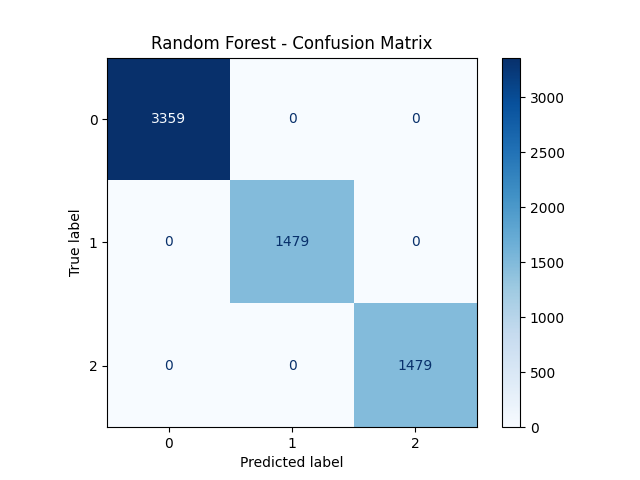
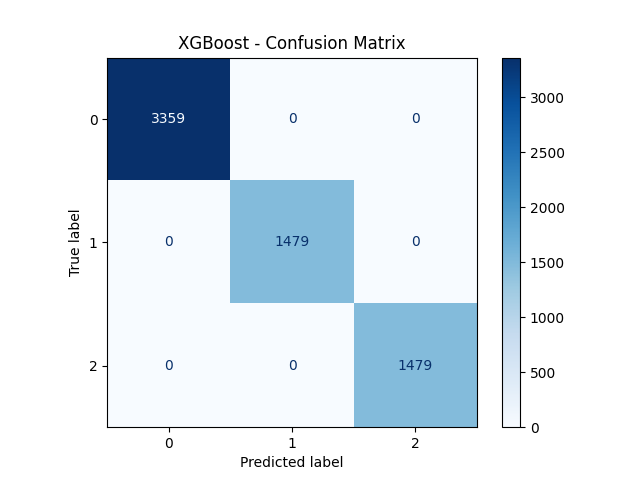
confussion matrices

Changed region(s): [[0.2188, 0.0625, 0.6875, 0.125]]

diff --git a/Deep_Neural_Networks/MLP/MLP_K_Fold.py b/Deep_Neural_Networks/MLP/MLP_K_Fold.py
@@ -6,7 +6,7 @@ import numpy as np
 from torch.utils.data import DataLoader, TensorDataset
 from sklearn.model_selection import StratifiedKFold
 from sklearn.preprocessing import MinMaxScaler
-from sklearn.metrics import accuracy_score
+from sklearn.metrics import accuracy_score, ConfusionMatrixDisplay, classification_report
 import matplotlib.pyplot as plt
 import pandas as pd
 import time
@@ -34,12 +34,13 @@ train_fold_accuracies = []
 train_time_l = []
 train_loss_l = []
 val_loss_l = []
+classific_report = []
 fold_n = 0
 
 for train_index, val_index in k_folds.split(features_tensor,label_tensor):
     fold_n += 1
 
-    print(f"\n======= Fold {fold_n}/{k_folds_n} =======")
+    print(f"\n================== Fold {fold_n}/{k_folds_n} ==================")
 
     X_train = features_tensor[train_index]
     y_train = label_tensor[train_index]
@@ -105,11 +106,11 @@ for train_index, val_index in k_folds.split(features_tensor,label_tensor):
                 _, predicted = torch.max(outputs, 1)
                 val_predictions.extend(predicted.cpu().numpy())
                 val_labels.extend(batch_y.cpu().numpy())
-         
+        
         avg_val_loss = val_loss / len(val_loader)
         val_accuracy = accuracy_score(val_labels, val_predictions) * 100
 
-        print(f"Epoch [{epoch+1}/{num_epochs}] Train Loss: {avg_train_loss:.6f} | Val Loss: {avg_val_loss:.6f} | Train Acc: {train_accuracy:.2f}% | Val Accuracy: {val_accuracy:.2f}%")
+        print(f"Epoch [{epoch+1}/{num_epochs}] Train Loss: {avg_train_loss:.6f} | Val Loss: {avg_val_loss:.6f} | Train Accuracy: {train_accuracy:.2f}% | Val Accuracy: {val_accuracy:.2f}%")
         
         train_losses.append(avg_train_loss)
         val_losses.append(avg_val_loss)
@@ -126,7 +127,18 @@ for train_index, val_index in k_folds.split(features_tensor,label_tensor):
     train_loss_l.append(np.mean(train_losses))
     val_loss_l.append(np.mean(val_losses))
 
+    print("\n-> Classification Report\n")
+    print(len(val_predictions))
+    print(classification_report(y_val,val_predictions, digits=2))
+
     print(f"\n-> Fold {fold_n} Average Validation Accuracy: {val_avg_accuracy:.2f}%, Average Train Accuracy: {train_avg_accuracy:.2f}%, Training Time: {training_time:.3f} seconds")
+
+    classific_report.append(classification_report(y_val,val_predictions, digits=2))
+
+    cm = ConfusionMatrixDisplay.from_predictions(y_val, val_predictions, cmap="Blues")
+    plt.title("MLP - Confusion Matrix")
+    plt.grid(False)
+    plt.savefig(f"MLP_K_Fold_plots/Confusion_Matrix/CM_{fold_n}.png")
 
     plt.figure(figsize=(10, 4))
     plt.plot(train_losses, label="Train Loss")
@@ -136,7 +148,7 @@ for train_index, val_index in k_folds.split(features_tensor,label_tensor):
     plt.ylabel("Loss")
     plt.legend()
     plt.grid(True)
-    plt.savefig(f"MLP_K_Fold_plots/train_validation_loss_fold_{fold_n}.png")
+    plt.savefig(f"MLP_K_Fold_plots/Train_Validation_Loss/train_validation_loss_fold_{fold_n}.png")
 
     plt.figure(figsize=(10, 4))
     plt.plot(val_accuracies, label="Validation Accuracy")
@@ -146,7 +158,7 @@ for train_index, val_index in k_folds.split(features_tensor,label_tensor):
     plt.ylabel("Accuracy (%)")
     plt.legend()
     plt.grid(True)
-    plt.savefig(f"MLP_K_Fold_plots/train_validation_accuracy_fold_{fold_n}.png")
+    plt.savefig(f"MLP_K_Fold_plots/Train_Validation_Accuracy/train_validation_accuracy_fold_{fold_n}.png")
 
 
 print("================================\n")
@@ -198,7 +210,9 @@ with open("MLP_report/mlp_report.txt", "w") as file:
     for i, loss in enumerate(val_loss_l):
         file.write(f"Fold {i+1}: {loss:.6f}\n")
     file.write(f"\nAverage Validation Loss: {np.mean(val_loss_l):.6f}\n")
-
+    file.write(f"\n-> Classification Report\n")
+    for i, report in enumerate(classific_report):
+        file.write(f"Fold {i+1}:\n {report}\n")
 
 print("Report saved:\n -> MLP/MLP_report\n")
 print("Plots saved:\n -> MLP/MLP_K_Fold_plots\n")

diff --git a/Deep_Neural_Networks/CNN/CNN_K_Fold.py b/Deep_Neural_Networks/CNN/CNN_K_Fold.py
@@ -6,7 +6,7 @@ import numpy as np
 from torch.utils.data import DataLoader, TensorDataset
 from sklearn.model_selection import StratifiedKFold
 from sklearn.preprocessing import MinMaxScaler
-from sklearn.metrics import accuracy_score
+from sklearn.metrics import accuracy_score, ConfusionMatrixDisplay, classification_report
 import matplotlib.pyplot as plt
 import pandas as pd
 import time
@@ -34,12 +34,13 @@ train_fold_accuracies = []
 train_time_l = []
 train_loss_l = []
 val_loss_l = []
+classific_report = []
 fold_n = 0
 
 for train_index, val_index in k_folds.split(features_tensor,label_tensor):
     fold_n += 1
 
-    print(f"\n======= Fold {fold_n}/{k_folds_n} =======")
+    print(f"\n================== Fold {fold_n}/{k_folds_n} ==================")
 
     X_train = features_tensor[train_index]
     y_train = label_tensor[train_index]
@@ -111,7 +112,7 @@ for train_index, val_index in k_folds.split(features_tensor,label_tensor):
         avg_val_loss = val_loss / len(val_loader)
         val_accuracy = accuracy_score(val_labels, val_predictions) * 100
 
-        print(f"Epoch [{epoch+1}/{num_epochs}] Train Loss: {avg_train_loss:.6f} | Val Loss: {avg_val_loss:.6f} | Train Acc: {train_accuracy:.2f}% | Val Accuracy: {val_accuracy:.2f}%")
+        print(f"Epoch [{epoch+1}/{num_epochs}] Train Loss: {avg_train_loss:.6f} | Val Loss: {avg_val_loss:.6f} | Train Accuracy: {train_accuracy:.2f}% | Val Accuracy: {val_accuracy:.2f}%")
         
         train_losses.append(avg_train_loss)
         val_losses.append(avg_val_loss)
@@ -128,7 +129,17 @@ for train_index, val_index in k_folds.split(features_tensor,label_tensor):
     train_loss_l.append(np.mean(train_losses))
     val_loss_l.append(np.mean(val_losses))
 
+    print("\n-> Classification Report\n")
+    print(classification_report(y_val,val_predictions, digits=2))
+
     print(f"\n-> Fold {fold_n} Average Validation Accuracy: {val_avg_accuracy:.2f}%, Average Train Accuracy: {train_avg_accuracy:.2f}% , Training Time: {training_time:.3f} seconds")
+
+    classific_report.append(classification_report(y_val,val_predictions, digits=2))
+
+    cm = ConfusionMatrixDisplay.from_predictions(y_val, val_predictions, cmap="Blues")
+    plt.title("CNN - Confusion Matrix")
+    plt.grid(False)
+    plt.savefig(f"CNN_K_Fold_plots/Confusion_Matrix/CM_{fold_n}.png")
 
     plt.figure(figsize=(10, 4))
     plt.plot(train_losses, label="Train Loss")
@@ -139,7 +150,7 @@ for train_index, val_index in k_folds.split(features_tensor,label_tensor):
     plt.xticks(range(1, num_epochs + 1))
     plt.legend()
     plt.grid(True)
-    plt.savefig(f"CNN_K_Fold_plots/train_validation_loss_fold_{fold_n}.png")
+    plt.savefig(f"CNN_K_Fold_plots/Train_Validation_Loss/train_validation_loss_fold_{fold_n}.png")
 
     plt.figure(figsize=(10, 4))
     plt.plot(val_accuracies, label="Validation Accuracy")
@@ -150,7 +161,7 @@ for train_index, val_index in k_folds.split(features_tensor,label_tensor):
     plt.xticks(range(1, num_epochs + 1))
     plt.legend()
     plt.grid(True)
-    plt.savefig(f"CNN_K_Fold_plots/train_validation_accuracy_fold_{fold_n}.png")
+    plt.savefig(f"CNN_K_Fold_plots/Train_Validation_Accuracy/train_validation_accuracy_fold_{fold_n}.png")
 
 print("================================\n")
 print(f"-> Average K-Fold Train Accuracy: {np.mean(train_fold_accuracies):.2f}%\n")
@@ -201,6 +212,9 @@ with open("CNN_report/CNN_report.txt", "w") as file:
     for i, loss in enumerate(val_loss_l):
         file.write(f"Fold {i+1}: {loss:.6f}\n")
     file.write(f"\nAverage Validation Loss: {np.mean(val_loss_l):.6f}\n")
+    file.write(f"\n-> Classification Report\n")
+    for i, report in enumerate(classific_report):
+        file.write(f"Fold {i+1}:\n {report}\n")
 
 print("Report saved:\n -> CNN/CNN_report\n")
 print("Plots saved:\n -> CNN/CNN_K_Fold_plots\n")

diff --git a/Machine_Learning_Models/XGBoost_Classifier/XGBoost_Classifier_K_Fold.py b/Machine_Learning_Models/XGBoost_Classifier/XGBoost_Classifier_K_Fold.py
@@ -86,7 +86,7 @@ for train_index, val_index in k_folds.split(features, label):
     classific_report.append(classification_report(y_val,val_predictions, digits=2))
 
     cm = ConfusionMatrixDisplay.from_predictions(y_val, val_predictions, cmap="Blues")
-    plt.title("Random Forest - Confusion Matrix")
+    plt.title("XGBoost - Confusion Matrix")
     plt.grid(False)
     plt.savefig(f"XGBoost_K_Fold_plots/CM_{fold_n}.png")
 

diff --git a/Machine_Learning_Models/Random_Forest_Classifier/Random_Forest_SHAP.PY b/Machine_Learning_Models/Random_Forest_Classifier/Random_Forest_SHAP.PY
@@ -39,7 +39,7 @@ try:
         plt.close()
 
     shap_values_avg = np.mean(np.abs(shap_values), axis=2)
-
+    
     plt.figure(figsize=(14, 7))
     shap.summary_plot(shap_values_avg, features=features_scaled_df, show=False)
     plt.title("SHAP Summary Plot")
